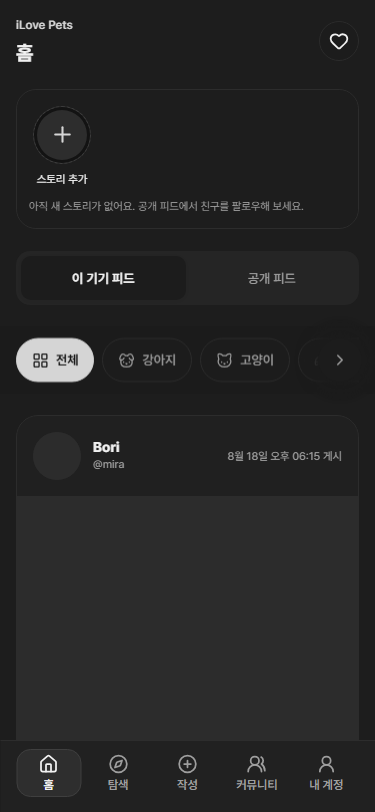
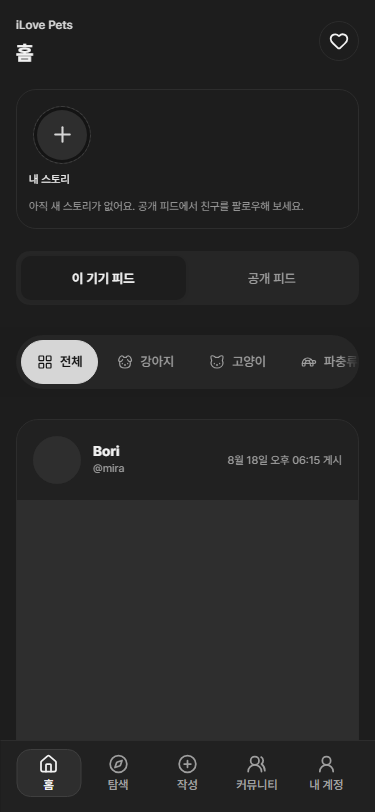
docs: refresh account entry screenshots and verify UI flows

diff --git a/tests/account-entry.spec.ts b/tests/account-entry.spec.ts
@@ -1,0 +1,77 @@
+import { expect, test } from "@playwright/test"
+
+test("guest account entry preserves records and explicitly opens device management", async ({
+  page,
+}) => {
+  await page.addInitScript(() => {
+    localStorage.setItem("i18nextLng", "ko")
+  })
+  await page.goto("/myaccount")
+  await expect(page.getByRole("heading", { name: "우리 아이의 기록을 한곳에" })).toBeVisible()
+  await expect(page.getByRole("heading", { name: "내 펫 등록" })).toHaveCount(0)
+  await expect(page.getByRole("button", { name: "Google로 계속" })).toBeVisible()
+  await expect(page.getByRole("link", { name: "이메일로 로그인" })).toHaveAttribute("href", "/auth")
+  await page.getByRole("button", { name: "로그인 없이 기기 기록 사용하기" }).click()
+  await page.getByLabel("펫 이름", { exact: true }).fill("Entry Pet")
+  await page.getByLabel("품종", { exact: true }).fill("Mix")
+  await page.getByRole("button", { name: "펫 저장", exact: true }).click()
+  await expect(page.getByRole("heading", { name: "Entry Pet", exact: true })).toBeVisible()
+  await page.getByRole("button", { name: "로그인 안내로 돌아가기" }).click()
+  await expect(page.getByText("이 기기에 저장된 기록은 그대로 보관되어 있어요.")).toBeVisible()
+  await page.reload()
+  await expect(page.getByRole("heading", { name: "내 펫 등록" })).toHaveCount(0)
+  await page.getByRole("button", { name: "로그인 없이 기기 기록 사용하기" }).click()
+  await expect(page.getByRole("heading", { name: "Entry Pet", exact: true })).toBeVisible()
+})
+
+test("unified category strip supports keyboard and scrolling without separate arrows", async ({
+  page,
+}) => {
+  await page.addInitScript(() => {
+    localStorage.setItem("i18nextLng", "ko")
+  })
+  await page.setViewportSize({ width: 375, height: 812 })
+  await page.goto("/")
+  const strip = page.locator(".home-category-strip")
+  await expect(strip.getByRole("button")).toHaveCount(7)
+  await strip.getByRole("button", { name: "전체", exact: true }).focus()
+  await page.keyboard.press("End")
+  await expect(strip.getByRole("button", { name: "기타", exact: true })).toBeFocused()
+  await expect
+    .poll(() => strip.locator(".home-category-strip__scroller").evaluate((el) => el.scrollLeft))
+    .toBeGreaterThan(0)
+  await page.keyboard.press("Enter")
+  await expect(strip.getByRole("button", { name: "기타", exact: true })).toHaveAttribute(
+    "aria-pressed",
+    "true",
+  )
+  await page.keyboard.press("Home")
+  await expect(strip.getByRole("button", { name: "전체", exact: true })).toBeFocused()
+  await expect(strip.locator(".home-category-strip__arrow")).toHaveCount(0)
+})
+
+for (const language of ["ko", "en", "ja"])
+  test(`account and categories fit ${language} in light/dark`, async ({ page }) => {
+    await page.addInitScript((lang) => {
+      localStorage.setItem("i18nextLng", lang)
+    }, language)
+    for (const theme of ["light", "dark"] as const) {
+      await page.emulateMedia({ colorScheme: theme })
+      for (const width of [375, 768, 1280]) {
+        await page.setViewportSize({ width, height: 812 })
+        for (const path of ["/myaccount", "/"]) {
+          await page.goto(path)
+          await expect(page.locator("h1")).toBeVisible()
+          if (path === "/myaccount") await expect(page.locator(".account-welcome")).toBeVisible()
+          expect(
+            await page.evaluate(() => document.documentElement.scrollWidth <= window.innerWidth),
+          ).toBe(true)
+          if (language === "ko" && width === 375)
+            await page.screenshot({
+              path: `test-results/entry-${path === "/" ? "home" : "account"}-${theme}.png`,
+              animations: "disabled",
+            })
+        }
+      }
+    }
+  })

diff --git a/README.md b/README.md
@@ -18,7 +18,7 @@ iLove Pets는 **펫 등록 → 사진 일기 → 성장 기록 → 선택적 공
 
 모바일을 기준으로 여백, 둥근 카드, 카테고리 칩, 입력창, 하단 내비게이션을 통일했습니다. 라이트·다크 테마와 한국어·영어·일본어를 지원합니다.
 
-아래 이미지는 실제 앱 UI를 **테스트 계정과 모의 API 데이터**로 캡처한 것입니다. 실제 이용자 개인정보와 비공개 사진을 포함하지 않으며, 일부 사진은 테스트 색상 이미지나 대체 화면으로 표시됩니다. 캡처 자체가 실제 서버 연동 검증을 의미하지는 않습니다.
+아래 이미지는 실제 앱 UI를 **테스트 계정·모의 API 또는 로그아웃 상태의 샘플 데이터**로 캡처한 것입니다. 실제 이용자 개인정보와 비공개 사진을 포함하지 않으며, 일부 사진은 테스트 색상 이미지나 대체 화면으로 표시됩니다. 캡처 자체가 실제 서버 연동 검증을 의미하지는 않습니다.
 
 <table>
   <tr><th>홈 · 스토리와 피드</th><th>탐색 · 인기 펫과 사진</th><th>내 계정 · 기록 관리</th></tr>
@@ -60,16 +60,26 @@ iLove Pets는 **펫 등록 → 사진 일기 → 성장 기록 → 선택적 공
 하단 메뉴는 **홈 / 탐색 / 작성 / 커뮤니티 / 내 계정**입니다. 활동 알림은 상단 하트 버튼에서, 설정은 내 계정에서 엽니다.
 
 1. **둘러보기:** 로그인 없이 홈의 카테고리를 바꾸고 탐색·커뮤니티 화면을 살펴봅니다.
-2. **내 기기에 기록하기:** 내 계정의 `이 기기`에서 펫을 등록하고 작성 화면에서 그 펫의 사진 일기를 저장합니다.
+2. **내 기기에 기록하기:** 내 계정의 `로그인 없이 기기 기록 사용하기`를 선택해 펫을 등록하고 작성 화면에서 사진 일기를 저장합니다. 로그인 상태에서는 `이 기기` 탭을 사용합니다.
 3. **계정으로 사용하기:** 로그인 후 `클라우드`에서 프로필과 펫을 등록합니다. 새 게시물은 비공개로 저장되며, 공유하려면 별도로 공개를 선택합니다.
 
 Google OAuth가 테스트 모드인 동안에는 등록된 테스트 사용자만 로그인할 수 있습니다. 로그인할 수 없어도 로컬 기능과 데모 화면은 확인할 수 있습니다.
+
+비로그인 내 계정에는 Google·이메일 로그인 안내를 먼저 표시하고, 프로필·펫·게시물 관리는 숨깁니다. 기기 기록은 보조 버튼으로 직접 선택해 열며 기존 자료는 유지됩니다. 로그인 상태를 확인하는 동안에는 로딩만 표시합니다. 홈 카테고리는 별도 좌우 버튼 없이 하나의 둥근 바에서 스와이프·가로 스크롤·키보드로 탐색합니다.
+
+<details>
+<summary>비로그인 내 계정 · 라이트와 다크 화면</summary>
+
+<img src="docs/screenshots/account-guest.png" width="240" alt="로그인 안내와 기기 기록 보조 진입만 표시한 내 계정" />
+<img src="docs/screenshots/account-guest-dark.png" width="240" alt="다크 모드의 비로그인 내 계정" />
+
+</details>
 
 ## 사용 시나리오
 
 ### 1. 반려동물의 일상을 내 기기에 기록하기
 
-`내 계정 → 이 기기 → 펫 등록 → 작성 → 펫·사진·본문 선택 → 저장`
+`내 계정 → 기기 기록 사용하기 → 펫 등록 → 작성 → 펫·사진·본문 선택 → 저장`
 
 등록한 펫에 사진 일기를 남기고, 내 계정에서 펫별 게시물과 성장 기록을 관리합니다. 날짜·체중·메모를 추가해 캘린더와 그래프로 확인합니다. 샘플 펫과 직접 등록한 펫은 구분하며, 새 글은 직접 등록한 펫에 작성합니다.
 
@@ -275,15 +285,16 @@ npm run smoke:preview
 
 2026-10-15 UI 변경 기준 검증 기록:
 
-| 구분         | 확인한 내용                                                                                                        |
-| ------------ | ------------------------------------------------------------------------------------------------------------------ |
-| 앱 단위 검사 | 38개 파일·192개 통과                                                                                               |
-| 서버 검사    | 알림·자료 이전 단계까지 41개 통과. UI 변경과 별도 수행                                                             |
-| Chromium     | 전체 70개 중 69개 통과 후 프로필 이동 대기 선택자를 보완하고 관련 19개 재검사 통과                                 |
-| 추가 UI 검사 | 11개 화면 라이트·다크, ko/en/ja와 375·768·1280px 및 지도 너비를 5개 검사로 확인. 모의 API 사용                     |
-| 실제 연동    | Google 로그인·세션 유지·사진 등록을 사용자 확인. 임시 계정 간 권한·공개 취소·알림·자료 이전은 원격 API로 별도 검증 |
+| 구분                    | 확인한 내용                                                                                                        |
+| ----------------------- | ------------------------------------------------------------------------------------------------------------------ |
+| 앱 단위 검사            | 로그인 진입·카테고리 변경 후 39개 파일·194개 통과                                                                  |
+| 서버 검사               | 알림·자료 이전 단계까지 41개 통과. UI 변경과 별도 수행                                                             |
+| Chromium · 이번 변경    | 로그인 진입·카테고리·인증·기기 기록·백업·성장·프로필·화면 검사 47개 통과                                           |
+| Chromium · 이전 UI 전체 | 전체 70개 중 69개 통과 후 프로필 이동 대기 선택자를 보완하고 관련 19개 재검사 통과                                 |
+| 추가 UI 검사            | 11개 화면 라이트·다크, ko/en/ja와 375·768·1280px 및 지도 너비를 5개 검사로 확인. 모의 API 사용                     |
+| 실제 연동               | Google 로그인·세션 유지·사진 등록을 사용자 확인. 임시 계정 간 권한·공개 취소·알림·자료 이전은 원격 API로 별도 검증 |
 
-이번 README 작업에서는 앱 코드를 변경하지 않고 추가 화면 캡처와 문서·이미지 참조를 확인했습니다. 상세 근거는 [UI 검증 기록](MyAIAgent/ilove-pets-ui-refresh.md), [프로필·피드 기록](MyAIAgent/ilove-pets-profiles-feeds.md), [알림·자료 이전 기록](MyAIAgent/ilove-pets-notifications-import.md)에 남겨 두었습니다.
+로그인 진입·카테고리 변경 후 기기 기록 보존과 반응형 화면을 추가 검사하고 캡처·문서 참조를 갱신했습니다. 상세 근거는 [UI 검증 기록](MyAIAgent/ilove-pets-ui-refresh.md), [프로필·피드 기록](MyAIAgent/ilove-pets-profiles-feeds.md), [알림·자료 이전 기록](MyAIAgent/ilove-pets-notifications-import.md)에 남겨 두었습니다.
 
 남은 과제는 이메일 발송·복구 실전 검증, 실물 모바일에서 계정 간 전체 시나리오, 신고·차단·계정 삭제, 실제 커뮤니티 데이터 연결입니다. 초기 JS 번들 크기 개선과 Windows에서 발생한 기존 `dist` 파일 잠금 대응도 후속 작업입니다. 샘플 병원 데이터와 포트폴리오 정책 문구를 운영 서비스 정보로 간주하지 않습니다.
 

diff --git a/docs/screenshots/README.md b/docs/screenshots/README.md
@@ -1,28 +1,30 @@
 # 화면 캡처
 
-2026-10-15에 배포된 UI(`2100a43`)를 기준으로 한 README용 화면입니다. viewport는 375 × 812px이며 Playwright Chromium으로 캡처했습니다.
+2026-10-15 UI를 기준으로 한 README용 화면입니다. 기존 페이지는 배포본 `2100a43`에서 캡처했으며, 홈과 비로그인 내 계정은 이후 로그인 진입·카테고리 변경의 production 미리보기 빌드에서 갱신했습니다. viewport는 375 × 812px이며 Playwright Chromium으로 캡처했습니다.
 
-기존 UI 검사에서 촬영한 PNG를 그대로 보관하고, 내 계정·성장 기록·활동 알림·자료 이전 미리보기를 추가 촬영했습니다. 공개 배포 사이트의 실제 UI를 사용하되 Supabase 요청은 테스트 fixture로 대체했습니다. 테스트 계정·샘플 펫을 사용하며 실제 이용자 개인정보와 비공개 사진은 포함하지 않습니다. 일부 사진은 테스트 색상 이미지 또는 로딩 실패 시 대체 화면입니다. 서버 동작 검증의 증거와 화면 예시는 구분합니다.
+기존 UI 검사에서 촬영한 PNG를 보관하고, 내 계정·성장 기록·활동 알림·자료 이전 미리보기를 추가 촬영했습니다. 공개 배포본의 계정 화면은 Supabase 요청을 테스트 fixture로 대체했고, 갱신한 홈·비로그인 화면은 로컬 production 미리보기의 로그아웃 상태와 샘플 피드를 사용합니다. 테스트 계정·샘플 펫을 사용하며 실제 이용자 개인정보와 비공개 사진은 포함하지 않습니다. 일부 사진은 테스트 색상 이미지 또는 로딩 실패 시 대체 화면입니다. 서버 동작 검증의 증거와 화면 예시는 구분합니다.
 
 이미지를 합성하거나 UI를 이미지 편집으로 변경하지 않았습니다. 파일은 저장소에 포함되어 GitHub README에서도 상대 경로로 표시됩니다.
 
-| 이미지                                   | 화면 및 사용 흐름                                       |
-| ---------------------------------------- | ------------------------------------------------------- |
-| [home.png](home.png)                     | 홈 카테고리·스토리·피드                                 |
-| [explore.png](explore.png)               | 인기 펫 가로 목록과 사진 그리드                         |
-| [account.png](account.png)               | 로그인 프로필·작성·자료 가져오기                        |
-| [create.png](create.png)                 | 사진 일기 작성                                          |
-| [community.png](community.png)           | 샘플 게시판·카테고리                                    |
-| [auth.png](auth.png)                     | Google·이메일 로그인 UI                                 |
-| [growth.png](growth.png)                 | 샘플 펫의 성장 그래프·케어 기록 팝업                    |
-| [activity.png](activity.png)             | 모의 좋아요·팔로우 알림과 읽음 상태                     |
-| [import-preview.png](import-preview.png) | 테스트 백업의 펫·글·성장 기록·사진 각 1개 이전 미리보기 |
-| [import.png](import.png)                 | 자료 이전 초기 화면                                     |
-| [cloud.png](cloud.png)                   | 계정 전용 클라우드 기록 관리                            |
-| [profile.png](profile.png)               | 공개 프로필                                             |
-| [post.png](post.png)                     | 공개 게시물 상세                                        |
-| [settings.png](settings.png)             | 설정 그룹·테마·언어                                     |
-| [home-dark.png](home-dark.png)           | 다크 모드 홈                                            |
-| [settings-dark.png](settings-dark.png)   | 다크 모드 설정                                          |
+| 이미지                                           | 화면 및 사용 흐름                                       |
+| ------------------------------------------------ | ------------------------------------------------------- |
+| [home.png](home.png)                             | 홈 카테고리·스토리·피드                                 |
+| [explore.png](explore.png)                       | 인기 펫 가로 목록과 사진 그리드                         |
+| [account.png](account.png)                       | 로그인 프로필·작성·자료 가져오기                        |
+| [account-guest.png](account-guest.png)           | 비로그인 안내와 선택적 기기 기록 진입                   |
+| [account-guest-dark.png](account-guest-dark.png) | 비로그인 내 계정 다크 모드                              |
+| [create.png](create.png)                         | 사진 일기 작성                                          |
+| [community.png](community.png)                   | 샘플 게시판·카테고리                                    |
+| [auth.png](auth.png)                             | Google·이메일 로그인 UI                                 |
+| [growth.png](growth.png)                         | 샘플 펫의 성장 그래프·케어 기록 팝업                    |
+| [activity.png](activity.png)                     | 모의 좋아요·팔로우 알림과 읽음 상태                     |
+| [import-preview.png](import-preview.png)         | 테스트 백업의 펫·글·성장 기록·사진 각 1개 이전 미리보기 |
+| [import.png](import.png)                         | 자료 이전 초기 화면                                     |
+| [cloud.png](cloud.png)                           | 계정 전용 클라우드 기록 관리                            |
+| [profile.png](profile.png)                       | 공개 프로필                                             |
+| [post.png](post.png)                             | 공개 게시물 상세                                        |
+| [settings.png](settings.png)                     | 설정 그룹·테마·언어                                     |
+| [home-dark.png](home-dark.png)                   | 다크 모드 홈                                            |
+| [settings-dark.png](settings-dark.png)           | 다크 모드 설정                                          |
 
 [프로젝트 설명으로 돌아가기](../../README.md)

diff --git a/MyAIAgent/ilove-pets-ui-refresh.md b/MyAIAgent/ilove-pets-ui-refresh.md
@@ -21,3 +21,11 @@
 - 일본어 커뮤니티의 긴 목록은 스크롤 마지막에서 콘텐츠가 고정 내비게이션 위에 보이는지 검사한다. 모든 목록이 첫 화면에 들어가야 한다는 이전 가정을 제거했다.
 - 11개 화면의 라이트·다크 캡처 및 ko/en/ja·375/768/1280px 페이지/병원 지도 너비 검사를 5개 별도 브라우저 검사로 통과했다. 화면 검사에는 모의 API를 사용하며 실물 휴대전화 검증과 구분한다.
 - 타입 검사·변경 파일 린트·포맷과 별도 출력 폴더 production build를 확인했다. 기존 Windows dist 파일 잠금과 번들 크기 경고는 후속 과제다.
+
+## 로그인 진입과 카테고리 후속 정리
+
+2026-10-15. 비로그인 내 계정은 로그인 안내를 기본 화면으로 제공한다. Google·이메일 진입과 로그인 필요 설명을 표시하고 프로필·펫·게시물·스토리 관리는 숨긴다. 기기 기록은 보조 버튼으로 명시적으로 선택하며 `?destination=local`로 접근한다. 안내로 돌아가거나 새로 진입해도 기존 자료는 삭제하지 않는다. 작성 화면의 첫 펫 등록 링크는 기기 관리로 직접 연결한다. 인증 확인 중에는 로딩만 표시한다. 한국어·영어·일본어 문구를 추가했다.
+
+카테고리는 별도 좌우 화살표를 제거하고 하나의 둥근 바 안에서 선택 항목만 강조한다. 가로 스크롤과 양끝 그라데이션으로 넘길 수 있음을 표시하고, 방향키·Home·End로 초점을 이동한다. 선택은 Enter·Space 또는 클릭으로 확정한다. 선택 항목과 키보드 초점은 보이는 범위로 이동하며 ResizeObserver로 너비 변화를 반영한다.
+
+검증: 앱 39개 파일·194개 통과. Chromium 관련 47개 통과(기기 자료 보존, 인증·프로필, 성장 수정, 백업·복원, 오프라인, 3개 언어·라이트/다크·375/768/1280px 포함). 타입 검사·변경 파일 린트·production 빌드를 확인했다. 서버 계약은 변경하지 않았다. 브라우저 화면 검사는 실물 휴대전화 또는 실제 Google 인증의 재검증과 구분한다. 홈·비로그인 내 계정 캡처와 README 진입 시나리오를 갱신했다.
